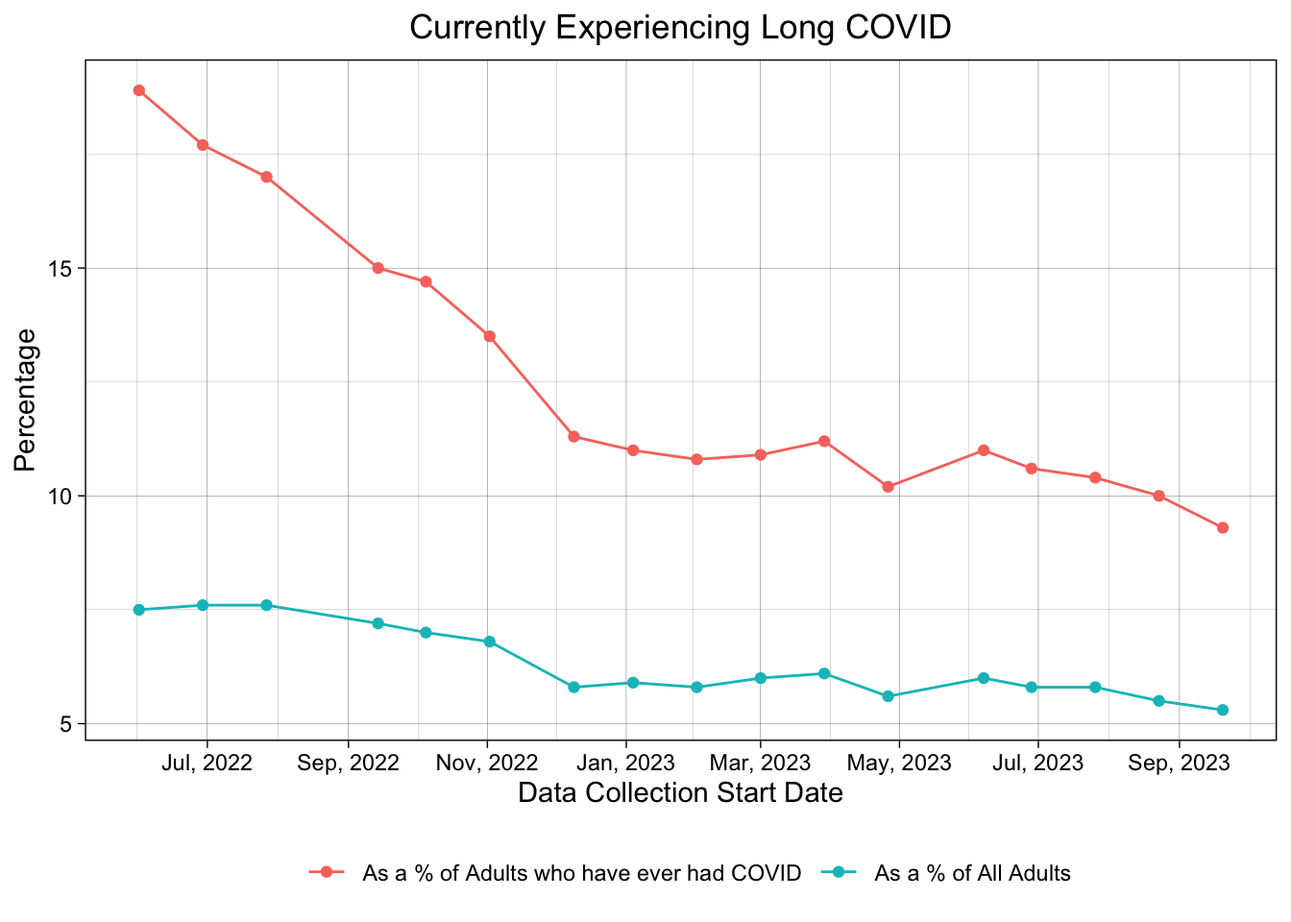
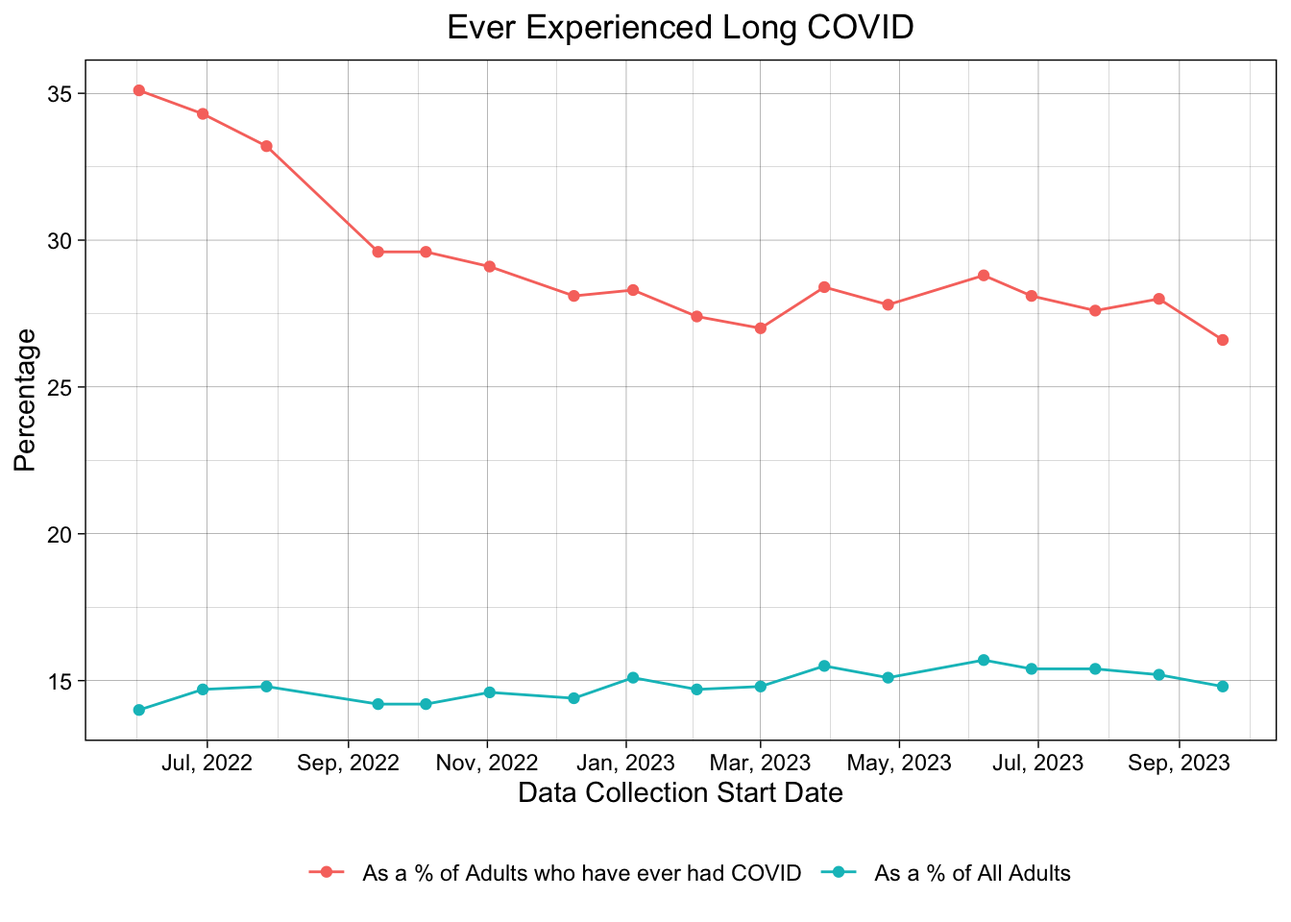
Added to responses and fixed a typo in data

diff --git a/docs/results.html b/docs/results.html
@@ -176,8 +176,8 @@ pre > code.sourceCode > span > a:first-child::before { text-decoration: underlin
     <h2 id="toc-title">Table of contents</h2>
    
   <ul>
-  <li><a href="#question-1-how-big-of-a-problem-actually-is-long-covid-have-reported-cases-increased-over-the-past-year-decreased-or-remained-relatively-constant-and-what-percentage-of-adults-in-the-us-are-actually-impacted" id="toc-question-1-how-big-of-a-problem-actually-is-long-covid-have-reported-cases-increased-over-the-past-year-decreased-or-remained-relatively-constant-and-what-percentage-of-adults-in-the-us-are-actually-impacted" class="nav-link active" data-scroll-target="#question-1-how-big-of-a-problem-actually-is-long-covid-have-reported-cases-increased-over-the-past-year-decreased-or-remained-relatively-constant-and-what-percentage-of-adults-in-the-us-are-actually-impacted"><span class="header-section-number">3.1</span> Question 1: How big of a problem actually is Long COVID? Have reported cases increased over the past year, decreased, or remained relatively constant, and what percentage of adults in the US are actually impacted?</a></li>
-  <li><a href="#question-3-what-impact-does-long-covid-have-on-various-health-metrics-such-as-level-of-fatigue-or-activity-metrics" id="toc-question-3-what-impact-does-long-covid-have-on-various-health-metrics-such-as-level-of-fatigue-or-activity-metrics" class="nav-link" data-scroll-target="#question-3-what-impact-does-long-covid-have-on-various-health-metrics-such-as-level-of-fatigue-or-activity-metrics"><span class="header-section-number">3.2</span> Question 3: What impact does Long COVID have on various health metrics, such as level of fatigue or activity metrics?</a></li>
+  <li><a href="#part-1-investigating-the-trends-in-long-covid-prevalence" id="toc-part-1-investigating-the-trends-in-long-covid-prevalence" class="nav-link active" data-scroll-target="#part-1-investigating-the-trends-in-long-covid-prevalence"><span class="header-section-number">3.1</span> Part 1: Investigating the Trends in Long COVID Prevalence</a></li>
+  <li><a href="#part-3-exploring-the-impact-of-long-covid-on-activity-limitations" id="toc-part-3-exploring-the-impact-of-long-covid-on-activity-limitations" class="nav-link" data-scroll-target="#part-3-exploring-the-impact-of-long-covid-on-activity-limitations"><span class="header-section-number">3.2</span> Part 3: Exploring the impact of Long COVID on activity limitations</a></li>
   </ul>
 <div class="toc-actions"><div><i class="bi bi-github"></i></div><div class="action-links"><p><a href="https://github.com/aaniretak/post-covid-conditions/edit/main/results.qmd" class="toc-action">Edit this page</a></p><p><a href="https://github.com/aaniretak/post-covid-conditions/issues/new" class="toc-action">Report an issue</a></p></div></div></nav>
     </div>
@@ -201,107 +201,140 @@ pre > code.sourceCode > span > a:first-child::before { text-decoration: underlin
 
 </header>
 
-<section id="question-1-how-big-of-a-problem-actually-is-long-covid-have-reported-cases-increased-over-the-past-year-decreased-or-remained-relatively-constant-and-what-percentage-of-adults-in-the-us-are-actually-impacted" class="level2" data-number="3.1">
-<h2 data-number="3.1" class="anchored" data-anchor-id="question-1-how-big-of-a-problem-actually-is-long-covid-have-reported-cases-increased-over-the-past-year-decreased-or-remained-relatively-constant-and-what-percentage-of-adults-in-the-us-are-actually-impacted"><span class="header-section-number">3.1</span> Question 1: How big of a problem actually is Long COVID? Have reported cases increased over the past year, decreased, or remained relatively constant, and what percentage of adults in the US are actually impacted?</h2>
-<p>Step 1: need to load in the data and process it</p>
+<section id="part-1-investigating-the-trends-in-long-covid-prevalence" class="level2" data-number="3.1">
+<h2 data-number="3.1" class="anchored" data-anchor-id="part-1-investigating-the-trends-in-long-covid-prevalence"><span class="header-section-number">3.1</span> Part 1: Investigating the Trends in Long COVID Prevalence</h2>
+<p>Our initial objective was to gain insight into the prevalence of Long COVID in the United States. Ultimately, our goal is to figure out what groups are affected most by Long COVID in order to best inform health policy officials when it comes to allocation of resources for diagnosis and treatment, but if Long COVID has low prevalence or shows decreasing trends in prevalence, these interventions might have limited efficacy. As such, it is important to first establish a baseline of what overall proportion of adults in the United States are either currently experiencing post-COVID-related symptoms, or have experienced such symptoms in the past.</p>
+<p>To answer this question best, we chose to look at only rows in our dataset containing the National Estimates for Long COVID cases among adults in the U.S., as these rows will give us the best overview of trends in cases. We did so by first filtering our data to select the rows contianing a value of “National Estimate” in the <code>Group</code> column, and then only chose to keep the columns for <code>Indicator</code>, <code>Group</code>, <code>Time.Period.Start.Date</code>, <code>Time.Period.End.Data</code>, and <code>Value</code>.</p>
 <div class="cell">
 <details>
 <summary>Code</summary>
 <div class="sourceCode cell-code" id="cb1"><pre class="sourceCode r code-with-copy"><code class="sourceCode r"><span id="cb1-1"><a href="#cb1-1" aria-hidden="true" tabindex="-1"></a><span class="co"># Import Required Libraries</span></span>
-<span id="cb1-2"><a href="#cb1-2" aria-hidden="true" tabindex="-1"></a><span class="fu">library</span>(dplyr)</span></code><button title="Copy to Clipboard" class="code-copy-button"><i class="bi"></i></button></pre></div>
-</details>
-<div class="cell-output cell-output-stderr">
-<pre><code>
-Attaching package: 'dplyr'</code></pre>
-</div>
-<div class="cell-output cell-output-stderr">
-<pre><code>The following objects are masked from 'package:stats':
-
-    filter, lag</code></pre>
-</div>
-<div class="cell-output cell-output-stderr">
-<pre><code>The following objects are masked from 'package:base':
-
-    intersect, setdiff, setequal, union</code></pre>
-</div>
-<details>
-<summary>Code</summary>
-<div class="sourceCode cell-code" id="cb5"><pre class="sourceCode r code-with-copy"><code class="sourceCode r"><span id="cb5-1"><a href="#cb5-1" aria-hidden="true" tabindex="-1"></a><span class="fu">library</span>(ggplot2)</span>
-<span id="cb5-2"><a href="#cb5-2" aria-hidden="true" tabindex="-1"></a><span class="fu">library</span>(forcats)</span>
-<span id="cb5-3"><a href="#cb5-3" aria-hidden="true" tabindex="-1"></a></span>
-<span id="cb5-4"><a href="#cb5-4" aria-hidden="true" tabindex="-1"></a><span class="co"># Import Data</span></span>
-<span id="cb5-5"><a href="#cb5-5" aria-hidden="true" tabindex="-1"></a>pcc <span class="ot">&lt;-</span> <span class="fu">read.csv</span>(<span class="st">"Post-COVID_Conditions.csv"</span>)</span></code><button title="Copy to Clipboard" class="code-copy-button"><i class="bi"></i></button></pre></div>
+<span id="cb1-2"><a href="#cb1-2" aria-hidden="true" tabindex="-1"></a><span class="fu">library</span>(dplyr)</span>
+<span id="cb1-3"><a href="#cb1-3" aria-hidden="true" tabindex="-1"></a><span class="fu">library</span>(ggplot2)</span>
+<span id="cb1-4"><a href="#cb1-4" aria-hidden="true" tabindex="-1"></a><span class="fu">library</span>(forcats)</span>
+<span id="cb1-5"><a href="#cb1-5" aria-hidden="true" tabindex="-1"></a></span>
+<span id="cb1-6"><a href="#cb1-6" aria-hidden="true" tabindex="-1"></a><span class="co"># Import Data</span></span>
+<span id="cb1-7"><a href="#cb1-7" aria-hidden="true" tabindex="-1"></a>pcc <span class="ot">&lt;-</span> <span class="fu">read.csv</span>(<span class="st">"Post-COVID_Conditions.csv"</span>)</span>
+<span id="cb1-8"><a href="#cb1-8" aria-hidden="true" tabindex="-1"></a></span>
+<span id="cb1-9"><a href="#cb1-9" aria-hidden="true" tabindex="-1"></a><span class="co"># Filter the data according to the workflow above</span></span>
+<span id="cb1-10"><a href="#cb1-10" aria-hidden="true" tabindex="-1"></a>TimeData <span class="ot">&lt;-</span> pcc <span class="sc">%&gt;%</span> <span class="fu">filter</span>(Group <span class="sc">==</span> <span class="st">'National Estimate'</span>) <span class="sc">%&gt;%</span> <span class="fu">select</span>(<span class="fu">c</span>(Indicator, Group, Time.Period.Start.Date, Time.Period.End.Date, Value))</span>
+<span id="cb1-11"><a href="#cb1-11" aria-hidden="true" tabindex="-1"></a></span>
+<span id="cb1-12"><a href="#cb1-12" aria-hidden="true" tabindex="-1"></a><span class="co"># Also need to convert the Time Period Colums to dates</span></span>
+<span id="cb1-13"><a href="#cb1-13" aria-hidden="true" tabindex="-1"></a>TimeData<span class="sc">$</span>Time.Period.Start.Date <span class="ot">&lt;-</span> <span class="fu">as.Date</span>(TimeData<span class="sc">$</span>Time.Period.Start.Date, <span class="at">format =</span> <span class="st">"%m/%d/%Y"</span>)</span>
+<span id="cb1-14"><a href="#cb1-14" aria-hidden="true" tabindex="-1"></a><span class="co">#TimeData$Time.Period.Start.Date &lt;- format(TimeData$Time.Period.Start.Date, "%B %d, %Y")</span></span>
+<span id="cb1-15"><a href="#cb1-15" aria-hidden="true" tabindex="-1"></a></span>
+<span id="cb1-16"><a href="#cb1-16" aria-hidden="true" tabindex="-1"></a>TimeData<span class="sc">$</span>Time.Period.End.Date<span class="ot">&lt;-</span> <span class="fu">as.Date</span>(TimeData<span class="sc">$</span>Time.Period.End.Date, <span class="at">format =</span> <span class="st">"%m/%d/%Y"</span>)</span>
+<span id="cb1-17"><a href="#cb1-17" aria-hidden="true" tabindex="-1"></a><span class="co">#TimeData$Time.Period.End.Date &lt;- format(TimeData$Time.Period.End.Date, "%B %d, %Y")</span></span></code><button title="Copy to Clipboard" class="code-copy-button"><i class="bi"></i></button></pre></div>
 </details>
 </div>
-<p>Step 2: Select only the data we want. For this question, since we are just looking at the national impact of Long COVID, we will only select the rows contianing a value of “National Estimate” in the <code>Group</code> column. Additionally, we only want the columns for <code>Indicator</code>, <code>Group</code>, <code>Time.Period.Start.Date</code>, <code>Time.Period.End.Data</code>, and <code>Value</code>.</p>
+<p>With the data filtered, we now looked at each indicator one at a time to identify overall trends in Long COVID cases in the United States. Since we wanted to look at the prevalence of Long COVID, we first looked at adults that are currently experiencing Long COVID, either as a percentage of adults who ever had COVID or as a percentage of all adults in the U.S.</p>
 <div class="cell">
 <details>
 <summary>Code</summary>
-<div class="sourceCode cell-code" id="cb6"><pre class="sourceCode r code-with-copy"><code class="sourceCode r"><span id="cb6-1"><a href="#cb6-1" aria-hidden="true" tabindex="-1"></a>TimeData <span class="ot">&lt;-</span> pcc <span class="sc">%&gt;%</span> <span class="fu">filter</span>(Group <span class="sc">==</span> <span class="st">'National Estimate'</span>) <span class="sc">%&gt;%</span> <span class="fu">select</span>(<span class="fu">c</span>(Indicator, Group, Time.Period.Start.Date, Time.Period.End.Date, Value))</span>
-<span id="cb6-2"><a href="#cb6-2" aria-hidden="true" tabindex="-1"></a></span>
-<span id="cb6-3"><a href="#cb6-3" aria-hidden="true" tabindex="-1"></a><span class="co"># Also convert the Time Period Colums to dates</span></span>
-<span id="cb6-4"><a href="#cb6-4" aria-hidden="true" tabindex="-1"></a>TimeData<span class="sc">$</span>Time.Period.Start.Date <span class="ot">&lt;-</span> <span class="fu">as.Date</span>(TimeData<span class="sc">$</span>Time.Period.Start.Date, <span class="at">format =</span> <span class="st">"%m/%d/%Y"</span>)</span>
-<span id="cb6-5"><a href="#cb6-5" aria-hidden="true" tabindex="-1"></a><span class="co">#TimeData$Time.Period.Start.Date &lt;- format(TimeData$Time.Period.Start.Date, "%B %d, %Y")</span></span>
-<span id="cb6-6"><a href="#cb6-6" aria-hidden="true" tabindex="-1"></a></span>
-<span id="cb6-7"><a href="#cb6-7" aria-hidden="true" tabindex="-1"></a>TimeData<span class="sc">$</span>Time.Period.End.Date<span class="ot">&lt;-</span> <span class="fu">as.Date</span>(TimeData<span class="sc">$</span>Time.Period.End.Date, <span class="at">format =</span> <span class="st">"%m/%d/%Y"</span>)</span>
-<span id="cb6-8"><a href="#cb6-8" aria-hidden="true" tabindex="-1"></a><span class="co">#TimeData$Time.Period.End.Date &lt;- format(TimeData$Time.Period.End.Date, "%B %d, %Y")</span></span></code><button title="Copy to Clipboard" class="code-copy-button"><i class="bi"></i></button></pre></div>
+<div class="sourceCode cell-code" id="cb2"><pre class="sourceCode r code-with-copy"><code class="sourceCode r"><span id="cb2-1"><a href="#cb2-1" aria-hidden="true" tabindex="-1"></a>CurrentExp <span class="ot">&lt;-</span> TimeData <span class="sc">%&gt;%</span> <span class="fu">filter</span>(Indicator <span class="sc">==</span> <span class="st">"Currently experiencing long COVID, as a percentage of adults who ever had COVID"</span> <span class="sc">|</span> Indicator <span class="sc">==</span> <span class="st">"Currently experiencing long COVID, as a percentage of all adults"</span>)</span>
+<span id="cb2-2"><a href="#cb2-2" aria-hidden="true" tabindex="-1"></a></span>
+<span id="cb2-3"><a href="#cb2-3" aria-hidden="true" tabindex="-1"></a>CurrentExp <span class="ot">&lt;-</span> <span class="fu">na.omit</span>(CurrentExp)</span>
+<span id="cb2-4"><a href="#cb2-4" aria-hidden="true" tabindex="-1"></a></span>
+<span id="cb2-5"><a href="#cb2-5" aria-hidden="true" tabindex="-1"></a>CurrentExp<span class="sc">$</span>Indicator <span class="ot">&lt;-</span> <span class="fu">recode</span>(CurrentExp<span class="sc">$</span>Indicator, <span class="st">"Currently experiencing long COVID, as a percentage of adults who ever had COVID"</span> <span class="ot">=</span> <span class="st">"As a % of Adults who have ever had COVID"</span>, <span class="st">"Currently experiencing long COVID, as a percentage of all adults"</span> <span class="ot">=</span> <span class="st">"As a % of All Adults"</span>)</span>
+<span id="cb2-6"><a href="#cb2-6" aria-hidden="true" tabindex="-1"></a></span>
+<span id="cb2-7"><a href="#cb2-7" aria-hidden="true" tabindex="-1"></a><span class="fu">ggplot</span>(CurrentExp, <span class="fu">aes</span>(<span class="at">x =</span> Time.Period.Start.Date, <span class="at">y =</span> Value, <span class="at">color =</span> Indicator)) <span class="sc">+</span></span>
+<span id="cb2-8"><a href="#cb2-8" aria-hidden="true" tabindex="-1"></a>  <span class="fu">geom_line</span>() <span class="sc">+</span></span>
+<span id="cb2-9"><a href="#cb2-9" aria-hidden="true" tabindex="-1"></a>  <span class="fu">geom_point</span>() <span class="sc">+</span></span>
+<span id="cb2-10"><a href="#cb2-10" aria-hidden="true" tabindex="-1"></a>  <span class="fu">ggtitle</span>(<span class="st">"Currently Experiencing Long COVID"</span>) <span class="sc">+</span> </span>
+<span id="cb2-11"><a href="#cb2-11" aria-hidden="true" tabindex="-1"></a>  <span class="fu">xlab</span>(<span class="st">"Data Collection Start Date"</span>) <span class="sc">+</span></span>
+<span id="cb2-12"><a href="#cb2-12" aria-hidden="true" tabindex="-1"></a>  <span class="fu">ylab</span>(<span class="st">"Percentage"</span>) <span class="sc">+</span></span>
+<span id="cb2-13"><a href="#cb2-13" aria-hidden="true" tabindex="-1"></a>  <span class="fu">scale_x_date</span>(<span class="at">labels =</span> scales<span class="sc">::</span><span class="fu">date_format</span>(<span class="st">"%b, %Y"</span>), <span class="at">breaks =</span> <span class="st">"2 month"</span>) <span class="sc">+</span></span>
+<span id="cb2-14"><a href="#cb2-14" aria-hidden="true" tabindex="-1"></a>  <span class="fu">theme_linedraw</span>() <span class="sc">+</span></span>
+<span id="cb2-15"><a href="#cb2-15" aria-hidden="true" tabindex="-1"></a>  <span class="fu">theme</span>(<span class="at">plot.title =</span> <span class="fu">element_text</span>(<span class="at">hjust =</span> <span class="fl">0.5</span>), <span class="at">legend.position =</span> <span class="st">"bottom"</span>) <span class="sc">+</span></span>
+<span id="cb2-16"><a href="#cb2-16" aria-hidden="true" tabindex="-1"></a>  <span class="fu">labs</span>(<span class="at">color =</span> <span class="cn">NULL</span>)</span></code><button title="Copy to Clipboard" class="code-copy-button"><i class="bi"></i></button></pre></div>
 </details>
+<div class="cell-output-display">
+<p><img src="results_files/figure-html/unnamed-chunk-2-1.png" class="img-fluid" width="672"></p>
 </div>
-<p>With the data filtered, we can now look at each indicator one at a time to identify overall trends in the United States. To test the code, we’re going to first try this with national estimates for anyone that every had COVID, stored in rows with <code>Indicator</code> = “Currently experiencing long COVID” (either as a percentage of adults who ever had COVID, or as a percentage of all adults).</p>
+</div>
+<p>From the graph, we see that overall, the proportion of adults that are currently experiencing Long COVID has consistently decreased over the course of the data collection across both cohorts, particularly when looking at the adults that are currently experiencing Long COVID and comparing it to all adults who have ever had COVID. However, this trend seems to be leveling off around 10%, suggesting that around 10% of adults that get COVID also suffer from post-COVID symptoms of some severity. Since this percentage is relatively high, support for Long COVID diagnosis and treatment still should be advised.</p>
+<p>The dataset also contains responses for adults that have ever experienced Long COVID, either as a percentage of adults who have ever had COVID or as a percentage of all adults. In order to see how prevalent Long COVID has been over the course of the pandemic, we also wanted to see how trends in the overall number of adults impacted by Long COVID have changed over the survey duration. For this analysis, we again only selected rows in our dataset containing the National Estimates for Long COVID cases among adults in the U.S.</p>
 <div class="cell">
 <details>
 <summary>Code</summary>
-<div class="sourceCode cell-code" id="cb7"><pre class="sourceCode r code-with-copy"><code class="sourceCode r"><span id="cb7-1"><a href="#cb7-1" aria-hidden="true" tabindex="-1"></a>CurrentExp <span class="ot">&lt;-</span> TimeData <span class="sc">%&gt;%</span> <span class="fu">filter</span>(Indicator <span class="sc">==</span> <span class="st">"Currently experiencing long COVID, as a percentage of adults who ever had COVID"</span> <span class="sc">|</span> Indicator <span class="sc">==</span> <span class="st">"Currently experiencing long COVID, as a percentage of all adults"</span>)</span>
-<span id="cb7-2"><a href="#cb7-2" aria-hidden="true" tabindex="-1"></a></span>
-<span id="cb7-3"><a href="#cb7-3" aria-hidden="true" tabindex="-1"></a>CurrentExp <span class="ot">&lt;-</span> <span class="fu">na.omit</span>(CurrentExp)</span>
-<span id="cb7-4"><a href="#cb7-4" aria-hidden="true" tabindex="-1"></a></span>
-<span id="cb7-5"><a href="#cb7-5" aria-hidden="true" tabindex="-1"></a>CurrentExp<span class="sc">$</span>Indicator <span class="ot">&lt;-</span> <span class="fu">recode</span>(CurrentExp<span class="sc">$</span>Indicator, <span class="st">"Currently experiencing long COVID, as a percentage of adults who ever had COVID"</span> <span class="ot">=</span> <span class="st">"As a % of Adults who have ever had COVID"</span>, <span class="st">"Currently experiencing long COVID, as a percentage of all adults"</span> <span class="ot">=</span> <span class="st">"As a % of All Adults"</span>)</span>
-<span id="cb7-6"><a href="#cb7-6" aria-hidden="true" tabindex="-1"></a></span>
-<span id="cb7-7"><a href="#cb7-7" aria-hidden="true" tabindex="-1"></a><span class="fu">ggplot</span>(CurrentExp, <span class="fu">aes</span>(<span class="at">x =</span> Time.Period.Start.Date, <span class="at">y =</span> Value, <span class="at">color =</span> Indicator)) <span class="sc">+</span></span>
-<span id="cb7-8"><a href="#cb7-8" aria-hidden="true" tabindex="-1"></a>  <span class="fu">geom_line</span>() <span class="sc">+</span></span>
-<span id="cb7-9"><a href="#cb7-9" aria-hidden="true" tabindex="-1"></a>  <span class="fu">geom_point</span>() <span class="sc">+</span></span>
-<span id="cb7-10"><a href="#cb7-10" aria-hidden="true" tabindex="-1"></a>  <span class="fu">ggtitle</span>(<span class="st">"Currently Experiencing Long COVID"</span>) <span class="sc">+</span> </span>
-<span id="cb7-11"><a href="#cb7-11" aria-hidden="true" tabindex="-1"></a>  <span class="fu">xlab</span>(<span class="st">"Data Collection Start Date"</span>) <span class="sc">+</span></span>
-<span id="cb7-12"><a href="#cb7-12" aria-hidden="true" tabindex="-1"></a>  <span class="fu">ylab</span>(<span class="st">"Percentage"</span>) <span class="sc">+</span></span>
-<span id="cb7-13"><a href="#cb7-13" aria-hidden="true" tabindex="-1"></a>  <span class="fu">scale_x_date</span>(<span class="at">labels =</span> scales<span class="sc">::</span><span class="fu">date_format</span>(<span class="st">"%b, %Y"</span>), <span class="at">breaks =</span> <span class="st">"2 month"</span>) <span class="sc">+</span></span>
-<span id="cb7-14"><a href="#cb7-14" aria-hidden="true" tabindex="-1"></a>  <span class="fu">theme_linedraw</span>() <span class="sc">+</span></span>
-<span id="cb7-15"><a href="#cb7-15" aria-hidden="true" tabindex="-1"></a>  <span class="fu">theme</span>(<span class="at">plot.title =</span> <span class="fu">element_text</span>(<span class="at">hjust =</span> <span class="fl">0.5</span>), <span class="at">legend.position =</span> <span class="st">"bottom"</span>) <span class="sc">+</span></span>
-<span id="cb7-16"><a href="#cb7-16" aria-hidden="true" tabindex="-1"></a>  <span class="fu">labs</span>(<span class="at">color =</span> <span class="cn">NULL</span>)</span></code><button title="Copy to Clipboard" class="code-copy-button"><i class="bi"></i></button></pre></div>
+<div class="sourceCode cell-code" id="cb3"><pre class="sourceCode r code-with-copy"><code class="sourceCode r"><span id="cb3-1"><a href="#cb3-1" aria-hidden="true" tabindex="-1"></a>EverExp <span class="ot">&lt;-</span> TimeData <span class="sc">%&gt;%</span> <span class="fu">filter</span>(Indicator <span class="sc">==</span> <span class="st">"Ever experienced long COVID, as a percentage of adults who ever had COVID"</span> <span class="sc">|</span> Indicator <span class="sc">==</span> <span class="st">"Ever experienced long COVID, as a percentage of all adults"</span>)</span>
+<span id="cb3-2"><a href="#cb3-2" aria-hidden="true" tabindex="-1"></a></span>
+<span id="cb3-3"><a href="#cb3-3" aria-hidden="true" tabindex="-1"></a>EverExp <span class="ot">&lt;-</span> <span class="fu">na.omit</span>(EverExp)</span>
+<span id="cb3-4"><a href="#cb3-4" aria-hidden="true" tabindex="-1"></a></span>
+<span id="cb3-5"><a href="#cb3-5" aria-hidden="true" tabindex="-1"></a>EverExp<span class="sc">$</span>Indicator <span class="ot">&lt;-</span> <span class="fu">recode</span>(EverExp<span class="sc">$</span>Indicator, <span class="st">"Ever experienced long COVID, as a percentage of adults who ever had COVID"</span> <span class="ot">=</span> <span class="st">"As a % of Adults who have ever had COVID"</span>, <span class="st">"Ever experienced long COVID, as a percentage of all adults"</span> <span class="ot">=</span> <span class="st">"As a % of All Adults"</span>)</span>
+<span id="cb3-6"><a href="#cb3-6" aria-hidden="true" tabindex="-1"></a></span>
+<span id="cb3-7"><a href="#cb3-7" aria-hidden="true" tabindex="-1"></a><span class="fu">ggplot</span>(EverExp, <span class="fu">aes</span>(<span class="at">x =</span> Time.Period.Start.Date, <span class="at">y =</span> Value, <span class="at">color =</span> Indicator)) <span class="sc">+</span></span>
+<span id="cb3-8"><a href="#cb3-8" aria-hidden="true" tabindex="-1"></a>  <span class="fu">geom_line</span>() <span class="sc">+</span></span>
+<span id="cb3-9"><a href="#cb3-9" aria-hidden="true" tabindex="-1"></a>  <span class="fu">geom_point</span>() <span class="sc">+</span></span>
+<span id="cb3-10"><a href="#cb3-10" aria-hidden="true" tabindex="-1"></a>  <span class="fu">ggtitle</span>(<span class="st">"Ever Experienced Long COVID"</span>) <span class="sc">+</span> </span>
+<span id="cb3-11"><a href="#cb3-11" aria-hidden="true" tabindex="-1"></a>  <span class="fu">xlab</span>(<span class="st">"Data Collection Start Date"</span>) <span class="sc">+</span></span>
+<span id="cb3-12"><a href="#cb3-12" aria-hidden="true" tabindex="-1"></a>  <span class="fu">ylab</span>(<span class="st">"Percentage"</span>) <span class="sc">+</span></span>
+<span id="cb3-13"><a href="#cb3-13" aria-hidden="true" tabindex="-1"></a>  <span class="fu">scale_x_date</span>(<span class="at">labels =</span> scales<span class="sc">::</span><span class="fu">date_format</span>(<span class="st">"%b, %Y"</span>), <span class="at">breaks =</span> <span class="st">"2 month"</span>) <span class="sc">+</span></span>
+<span id="cb3-14"><a href="#cb3-14" aria-hidden="true" tabindex="-1"></a>  <span class="fu">theme_linedraw</span>() <span class="sc">+</span></span>
+<span id="cb3-15"><a href="#cb3-15" aria-hidden="true" tabindex="-1"></a>  <span class="fu">theme</span>(<span class="at">plot.title =</span> <span class="fu">element_text</span>(<span class="at">hjust =</span> <span class="fl">0.5</span>), <span class="at">legend.position =</span> <span class="st">"bottom"</span>) <span class="sc">+</span></span>
+<span id="cb3-16"><a href="#cb3-16" aria-hidden="true" tabindex="-1"></a>  <span class="fu">labs</span>(<span class="at">color =</span> <span class="cn">NULL</span>)</span></code><button title="Copy to Clipboard" class="code-copy-button"><i class="bi"></i></button></pre></div>
 </details>
 <div class="cell-output-display">
 <p><img src="results_files/figure-html/unnamed-chunk-3-1.png" class="img-fluid" width="672"></p>
 </div>
 </div>
-<p>From the graph, we see that overall, the proportion of adults that are currently experiencing Long COVID has consistently decreasd over the course of the data collection across both cohorts, particularly when looking at the adults that are currently experiencing Long COVID and comparing it to all adults who have ever had COVID.</p>
-<p>Now, we want to look at the percentage of adults who have EVER experienced Long COVID.</p>
+<p>In the graph above, we expect the proportion of adults who have ever experienced Long COVID to <strong>increase</strong>, as each time the survey is answered, all people that have previously had Long COVID should respond yes, along with all people that have newly contacted Long COVID. While this trend is observed in the proportion of adults who have ever experienced Long COVID as a percentage of <strong>all adults</strong>, it is not the case for the proportion of adults who have ever experienced Long COVID as a percentage of all adults who <strong>ever had COVID</strong>. It is possible that this result is an artifact of the data collection process, but the exact reason cannot be uncovered by information in the dataset alone.</p>
+</section>
+<section id="part-3-exploring-the-impact-of-long-covid-on-activity-limitations" class="level2" data-number="3.2">
+<h2 data-number="3.2" class="anchored" data-anchor-id="part-3-exploring-the-impact-of-long-covid-on-activity-limitations"><span class="header-section-number">3.2</span> Part 3: Exploring the impact of Long COVID on activity limitations</h2>
+<p>In our data set, the CDC measured the impact of Long COVID on overall health using questions about activity, looking at both those currently experiencing any activity limitations due to Long COVID and those currently experiencing significant activity limitations due to Long COVID (for more details as to the differences between these groups, please see the data overview section). To get an overview of the effect of Long COVID on health, we first wanted to see if Long COVID truly has a tangible impact on health. To do so, we returned to using national estimates of Long COVID (stored in rows contianing a value of “National Estimate” in the <code>Group</code> column), and specifically focused on the indicators of activity limiations over time.</p>
 <div class="cell">
 <details>
 <summary>Code</summary>
-<div class="sourceCode cell-code" id="cb8"><pre class="sourceCode r code-with-copy"><code class="sourceCode r"><span id="cb8-1"><a href="#cb8-1" aria-hidden="true" tabindex="-1"></a>EverExp <span class="ot">&lt;-</span> TimeData <span class="sc">%&gt;%</span> <span class="fu">filter</span>(Indicator <span class="sc">==</span> <span class="st">"Ever experienced long COVID, as a percentage of adults who ever had COVID"</span> <span class="sc">|</span> Indicator <span class="sc">==</span> <span class="st">"Ever experienced long COVID, as a percentage of all adults"</span>)</span>
-<span id="cb8-2"><a href="#cb8-2" aria-hidden="true" tabindex="-1"></a></span>
-<span id="cb8-3"><a href="#cb8-3" aria-hidden="true" tabindex="-1"></a>EverExp <span class="ot">&lt;-</span> <span class="fu">na.omit</span>(EverExp)</span>
-<span id="cb8-4"><a href="#cb8-4" aria-hidden="true" tabindex="-1"></a></span>
-<span id="cb8-5"><a href="#cb8-5" aria-hidden="true" tabindex="-1"></a>EverExp<span class="sc">$</span>Indicator <span class="ot">&lt;-</span> <span class="fu">recode</span>(EverExp<span class="sc">$</span>Indicator, <span class="st">"Ever experienced long COVID, as a percentage of adults who ever had COVID"</span> <span class="ot">=</span> <span class="st">"As a % of Adults who have ever had COVID"</span>, <span class="st">"Ever experienced long COVID, as a percentage of all adults"</span> <span class="ot">=</span> <span class="st">"As a % of All Adults"</span>)</span>
-<span id="cb8-6"><a href="#cb8-6" aria-hidden="true" tabindex="-1"></a></span>
-<span id="cb8-7"><a href="#cb8-7" aria-hidden="true" tabindex="-1"></a><span class="fu">ggplot</span>(EverExp, <span class="fu">aes</span>(<span class="at">x =</span> Time.Period.Start.Date, <span class="at">y =</span> Value, <span class="at">color =</span> Indicator)) <span class="sc">+</span></span>
-<span id="cb8-8"><a href="#cb8-8" aria-hidden="true" tabindex="-1"></a>  <span class="fu">geom_line</span>() <span class="sc">+</span></span>
-<span id="cb8-9"><a href="#cb8-9" aria-hidden="true" tabindex="-1"></a>  <span class="fu">geom_point</span>() <span class="sc">+</span></span>
-<span id="cb8-10"><a href="#cb8-10" aria-hidden="true" tabindex="-1"></a>  <span class="fu">ggtitle</span>(<span class="st">"Ever Experienced Long COVID"</span>) <span class="sc">+</span> </span>
-<span id="cb8-11"><a href="#cb8-11" aria-hidden="true" tabindex="-1"></a>  <span class="fu">xlab</span>(<span class="st">"Data Collection Start Date"</span>) <span class="sc">+</span></span>
-<span id="cb8-12"><a href="#cb8-12" aria-hidden="true" tabindex="-1"></a>  <span class="fu">ylab</span>(<span class="st">"Percentage"</span>) <span class="sc">+</span></span>
-<span id="cb8-13"><a href="#cb8-13" aria-hidden="true" tabindex="-1"></a>  <span class="fu">scale_x_date</span>(<span class="at">labels =</span> scales<span class="sc">::</span><span class="fu">date_format</span>(<span class="st">"%b, %Y"</span>), <span class="at">breaks =</span> <span class="st">"2 month"</span>) <span class="sc">+</span></span>
-<span id="cb8-14"><a href="#cb8-14" aria-hidden="true" tabindex="-1"></a>  <span class="fu">theme_linedraw</span>() <span class="sc">+</span></span>
-<span id="cb8-15"><a href="#cb8-15" aria-hidden="true" tabindex="-1"></a>  <span class="fu">theme</span>(<span class="at">plot.title =</span> <span class="fu">element_text</span>(<span class="at">hjust =</span> <span class="fl">0.5</span>), <span class="at">legend.position =</span> <span class="st">"bottom"</span>) <span class="sc">+</span></span>
-<span id="cb8-16"><a href="#cb8-16" aria-hidden="true" tabindex="-1"></a>  <span class="fu">labs</span>(<span class="at">color =</span> <span class="cn">NULL</span>)</span></code><button title="Copy to Clipboard" class="code-copy-button"><i class="bi"></i></button></pre></div>
+<div class="sourceCode cell-code" id="cb4"><pre class="sourceCode r code-with-copy"><code class="sourceCode r"><span id="cb4-1"><a href="#cb4-1" aria-hidden="true" tabindex="-1"></a><span class="co"># Can re-use the TimeData dataframe that we created earlier to analyze time series data for question 1:</span></span>
+<span id="cb4-2"><a href="#cb4-2" aria-hidden="true" tabindex="-1"></a>AnyActivityLimits <span class="ot">&lt;-</span> TimeData <span class="sc">%&gt;%</span> <span class="fu">filter</span>(Indicator <span class="sc">==</span> <span class="st">"Any activity limitations from long COVID, as a percentage of adults who currently have long COVID"</span> <span class="sc">|</span> Indicator <span class="sc">==</span> <span class="st">"Any activity limitations from long COVID, as a percentage of all adults"</span>)</span>
+<span id="cb4-3"><a href="#cb4-3" aria-hidden="true" tabindex="-1"></a></span>
+<span id="cb4-4"><a href="#cb4-4" aria-hidden="true" tabindex="-1"></a>AnyActivityLimits <span class="ot">&lt;-</span> <span class="fu">na.omit</span>(AnyActivityLimits)</span>
+<span id="cb4-5"><a href="#cb4-5" aria-hidden="true" tabindex="-1"></a></span>
+<span id="cb4-6"><a href="#cb4-6" aria-hidden="true" tabindex="-1"></a>AnyActivityLimits<span class="sc">$</span>Indicator <span class="ot">&lt;-</span> <span class="fu">recode</span>(AnyActivityLimits<span class="sc">$</span>Indicator, <span class="st">"Any activity limitations from long COVID, as a percentage of adults who currently have long COVID"</span> <span class="ot">=</span> <span class="st">"As a % of Adults who have ever had Long COVID"</span>, <span class="st">"Any activity limitations from long COVID, as a percentage of all adults"</span> <span class="ot">=</span> <span class="st">"As a % of All Adults"</span>)</span>
+<span id="cb4-7"><a href="#cb4-7" aria-hidden="true" tabindex="-1"></a></span>
+<span id="cb4-8"><a href="#cb4-8" aria-hidden="true" tabindex="-1"></a><span class="fu">ggplot</span>(AnyActivityLimits, <span class="fu">aes</span>(<span class="at">x =</span> Time.Period.Start.Date, <span class="at">y =</span> Value, <span class="at">color =</span> Indicator)) <span class="sc">+</span></span>
+<span id="cb4-9"><a href="#cb4-9" aria-hidden="true" tabindex="-1"></a>  <span class="fu">geom_line</span>() <span class="sc">+</span></span>
+<span id="cb4-10"><a href="#cb4-10" aria-hidden="true" tabindex="-1"></a>  <span class="fu">geom_point</span>() <span class="sc">+</span></span>
+<span id="cb4-11"><a href="#cb4-11" aria-hidden="true" tabindex="-1"></a>  <span class="fu">ggtitle</span>(<span class="st">"Currently experiencing any Activity Limitations"</span>) <span class="sc">+</span> </span>
+<span id="cb4-12"><a href="#cb4-12" aria-hidden="true" tabindex="-1"></a>  <span class="fu">xlab</span>(<span class="st">"Data Collection Start Date"</span>) <span class="sc">+</span></span>
+<span id="cb4-13"><a href="#cb4-13" aria-hidden="true" tabindex="-1"></a>  <span class="fu">ylab</span>(<span class="st">"Percentage"</span>) <span class="sc">+</span></span>
+<span id="cb4-14"><a href="#cb4-14" aria-hidden="true" tabindex="-1"></a>  <span class="fu">scale_x_date</span>(<span class="at">labels =</span> scales<span class="sc">::</span><span class="fu">date_format</span>(<span class="st">"%b, %Y"</span>), <span class="at">breaks =</span> <span class="st">"3 month"</span>) <span class="sc">+</span></span>
+<span id="cb4-15"><a href="#cb4-15" aria-hidden="true" tabindex="-1"></a>  <span class="fu">theme_linedraw</span>() <span class="sc">+</span></span>
+<span id="cb4-16"><a href="#cb4-16" aria-hidden="true" tabindex="-1"></a>  <span class="fu">theme</span>(<span class="at">plot.title =</span> <span class="fu">element_text</span>(<span class="at">hjust =</span> <span class="fl">0.5</span>), <span class="at">legend.position =</span> <span class="st">"bottom"</span>) <span class="sc">+</span></span>
+<span id="cb4-17"><a href="#cb4-17" aria-hidden="true" tabindex="-1"></a>  <span class="fu">labs</span>(<span class="at">color =</span> <span class="cn">NULL</span>)</span></code><button title="Copy to Clipboard" class="code-copy-button"><i class="bi"></i></button></pre></div>
 </details>
 <div class="cell-output-display">
 <p><img src="results_files/figure-html/unnamed-chunk-4-1.png" class="img-fluid" width="672"></p>
 </div>
 </div>
-<p>This seems like an error, or at least something funky with the data collection, as the total should not decrease.</p>
-</section>
-<section id="question-3-what-impact-does-long-covid-have-on-various-health-metrics-such-as-level-of-fatigue-or-activity-metrics" class="level2" data-number="3.2">
-<h2 data-number="3.2" class="anchored" data-anchor-id="question-3-what-impact-does-long-covid-have-on-various-health-metrics-such-as-level-of-fatigue-or-activity-metrics"><span class="header-section-number">3.2</span> Question 3: What impact does Long COVID have on various health metrics, such as level of fatigue or activity metrics?</h2>
+<p>The graph above suggests that most adults with Long COVID are also experiencing some degree of activity limitations, as throughout the past year the proportion of adults that have experienced any activity limitations out of all adults thaat have ever had Long COVID has hovered around 80%. While much lower, there is also a noticable proportion of adults with activity limitations from Long COVID out of all adults, around 6%. Additionally, this data suggests that this problem is pervasive, as the proportion of adults experiencing Long COVID-attributed activity limitations has remained consistent since September 2022.</p>
+<p>The dataset also let us look at those experiencing <strong>significant</strong> activity limitations, in a similar analysis to the above.</p>
+<div class="cell">
+<details>
+<summary>Code</summary>
+<div class="sourceCode cell-code" id="cb5"><pre class="sourceCode r code-with-copy"><code class="sourceCode r"><span id="cb5-1"><a href="#cb5-1" aria-hidden="true" tabindex="-1"></a>SignifActivityLimits <span class="ot">&lt;-</span> TimeData <span class="sc">%&gt;%</span> <span class="fu">filter</span>(Indicator <span class="sc">==</span> <span class="st">"Significant activity limitations from long COVID, as a percentage of adults who currently have long COVID"</span> <span class="sc">|</span> Indicator <span class="sc">==</span> <span class="st">"Significant activity limitations from long COVID, as a percentage of all adults"</span>)</span>
+<span id="cb5-2"><a href="#cb5-2" aria-hidden="true" tabindex="-1"></a></span>
+<span id="cb5-3"><a href="#cb5-3" aria-hidden="true" tabindex="-1"></a>SignifActivityLimits <span class="ot">&lt;-</span> <span class="fu">na.omit</span>(SignifActivityLimits)</span>
+<span id="cb5-4"><a href="#cb5-4" aria-hidden="true" tabindex="-1"></a></span>
+<span id="cb5-5"><a href="#cb5-5" aria-hidden="true" tabindex="-1"></a>SignifActivityLimits<span class="sc">$</span>Indicator <span class="ot">&lt;-</span> <span class="fu">recode</span>(SignifActivityLimits<span class="sc">$</span>Indicator, <span class="st">"Significant activity limitations from long COVID, as a percentage of adults who currently have long COVID"</span> <span class="ot">=</span> <span class="st">"As a % of Adults who have ever had Long COVID"</span>, <span class="st">"Significant activity limitations from long COVID, as a percentage of all adults"</span> <span class="ot">=</span> <span class="st">"As a % of All Adults"</span>)</span>
+<span id="cb5-6"><a href="#cb5-6" aria-hidden="true" tabindex="-1"></a></span>
+<span id="cb5-7"><a href="#cb5-7" aria-hidden="true" tabindex="-1"></a><span class="fu">ggplot</span>(SignifActivityLimits, <span class="fu">aes</span>(<span class="at">x =</span> Time.Period.Start.Date, <span class="at">y =</span> Value, <span class="at">color =</span> Indicator)) <span class="sc">+</span></span>
+<span id="cb5-8"><a href="#cb5-8" aria-hidden="true" tabindex="-1"></a>  <span class="fu">geom_line</span>() <span class="sc">+</span></span>
+<span id="cb5-9"><a href="#cb5-9" aria-hidden="true" tabindex="-1"></a>  <span class="fu">geom_point</span>() <span class="sc">+</span></span>
+<span id="cb5-10"><a href="#cb5-10" aria-hidden="true" tabindex="-1"></a>  <span class="fu">ggtitle</span>(<span class="st">"Currently experiencing Significant Activity Limitations"</span>) <span class="sc">+</span> </span>
+<span id="cb5-11"><a href="#cb5-11" aria-hidden="true" tabindex="-1"></a>  <span class="fu">xlab</span>(<span class="st">"Data Collection Start Date"</span>) <span class="sc">+</span></span>
+<span id="cb5-12"><a href="#cb5-12" aria-hidden="true" tabindex="-1"></a>  <span class="fu">ylab</span>(<span class="st">"Percentage"</span>) <span class="sc">+</span></span>
+<span id="cb5-13"><a href="#cb5-13" aria-hidden="true" tabindex="-1"></a>  <span class="fu">scale_x_date</span>(<span class="at">labels =</span> scales<span class="sc">::</span><span class="fu">date_format</span>(<span class="st">"%b, %Y"</span>), <span class="at">breaks =</span> <span class="st">"3 month"</span>) <span class="sc">+</span></span>
+<span id="cb5-14"><a href="#cb5-14" aria-hidden="true" tabindex="-1"></a>  <span class="fu">theme_linedraw</span>() <span class="sc">+</span></span>
+<span id="cb5-15"><a href="#cb5-15" aria-hidden="true" tabindex="-1"></a>  <span class="fu">theme</span>(<span class="at">plot.title =</span> <span class="fu">element_text</span>(<span class="at">hjust =</span> <span class="fl">0.5</span>), <span class="at">legend.position =</span> <span class="st">"bottom"</span>) <span class="sc">+</span></span>
+<span id="cb5-16"><a href="#cb5-16" aria-hidden="true" tabindex="-1"></a>  <span class="fu">labs</span>(<span class="at">color =</span> <span class="cn">NULL</span>)</span></code><button title="Copy to Clipboard" class="code-copy-button"><i class="bi"></i></button></pre></div>
+</details>
+<div class="cell-output-display">
+<p><img src="results_files/figure-html/unnamed-chunk-5-1.png" class="img-fluid" width="672"></p>
+</div>
+</div>
+<p>Here, the same trends as above are visible, albeit to a lesser extent. From this information, we concluded that of those that experience post-COVID symptoms, many (around 25%) experience some form of a lasting, significant impact to their overall health. There is also a non-zero proportion of all adults in the U.S. that experience significant health ramifications related to COVID (around 1.5%), suggesting that COVID presents a significant risk for developing adverse health events even when looking at the entire U.S. population.</p>
 
 
 </section>

diff --git a/docs/data.html b/docs/data.html
@@ -358,7 +358,7 @@ pre > code.sourceCode > span > a:first-child::before { text-decoration: underlin
 <span id="cb10-6"><a href="#cb10-6" aria-hidden="true" tabindex="-1"></a>pcc<span class="sc">$</span>Quartile.number <span class="ot">&lt;-</span> <span class="fu">ifelse</span>(<span class="fu">is.na</span>(pcc<span class="sc">$</span>Suppression.Flag), pcc<span class="sc">$</span>Quartile.number, <span class="cn">NA</span>)</span></code><button title="Copy to Clipboard" class="code-copy-button"><i class="bi"></i></button></pre></div>
 </details>
 </div>
-<p>With the overall trends of what columns contain NA values known, we know wanted to gain further insight into what exact row values or experimental conditions resulted in NA values. To do so, we first looked at whether or not specific time periods contained higher levels of NA values than others. This was accomplished using a heatmap of number of NA’s in the <strong>Value</strong> column, grouped by each time period. Specifically, we took the total number of NA’s in each time period and divided by the total number of rows in each time period, in order to get the <strong>proportion</strong> of observations that had NA’s in value for each time period.</p>
+<p>With the overall trends of what columns contain NA values known, we now wanted to gain further insight into what exact row values or experimental conditions resulted in NA values. To do so, we first looked at whether or not specific time periods contained higher levels of NA values than others. This was accomplished using a heatmap of number of NA’s in the <strong>Value</strong> column, grouped by each time period. Specifically, we took the total number of NA’s in each time period and divided by the total number of rows in each time period, in order to get the <strong>proportion</strong> of observations that had NA’s in value for each time period.</p>
 <div class="cell">
 <details>
 <summary>Code</summary>

diff --git a/docs/index.html b/docs/index.html
@@ -8,7 +8,7 @@
 
 <meta name="author" content="Isaac Peabody (itp2109)">
 <meta name="author" content="Katerina Athanasia (aa5258)">
-<meta name="dcterms.date" content="2023-12-12">
+<meta name="dcterms.date" content="2023-12-13">
 
 <title>Post-Covid Conditions</title>
 <style>
@@ -171,7 +171,7 @@ ul.task-list li input[type="checkbox"] {
     <div>
     <div class="quarto-title-meta-heading">Published</div>
     <div class="quarto-title-meta-contents">
-      <p class="date">December 12, 2023</p>
+      <p class="date">December 13, 2023</p>
     </div>
   </div>
   
